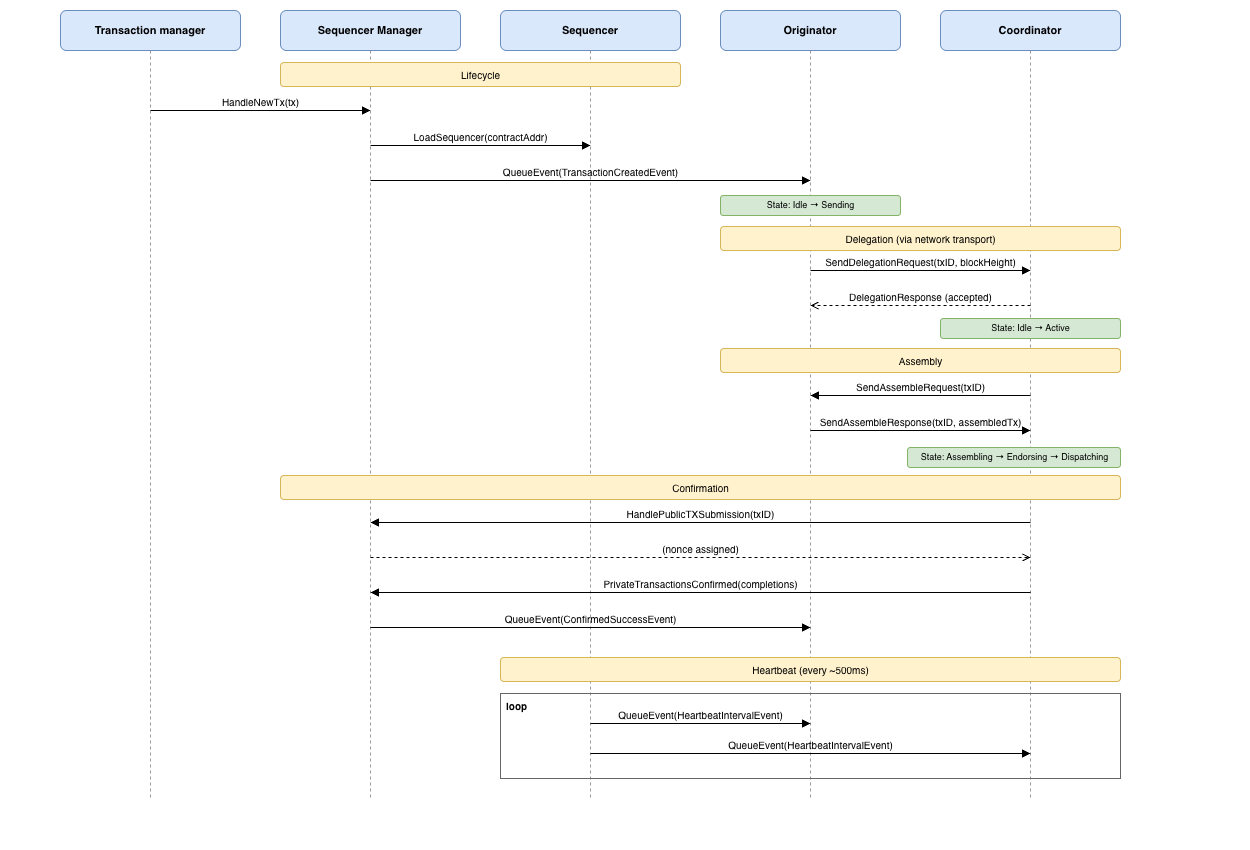
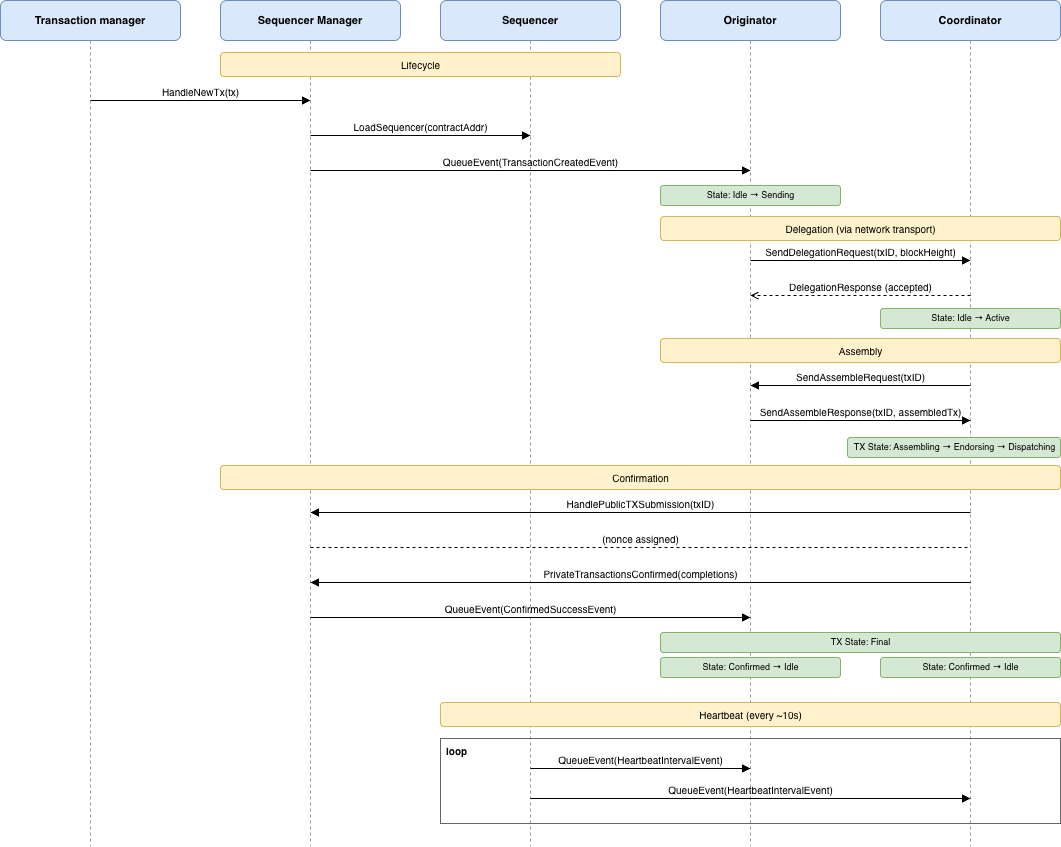
Address review comments

diff --git a/doc-site/docs/architecture/distributed_sequencer_architecture.md b/doc-site/docs/architecture/distributed_sequencer_architecture.md
@@ -4,31 +4,30 @@ Paladin is made up of a number of discrete components, each of which handles dif
 
 The distributed sequencer is one of those standalone components and the sequencer manager handles the lifetime of sequencers for different domain contracts.
 
-The distributed sequencer is implemented using [state machines](./distributed_sequencer_state_machine.md) to track activity in the [2 core components](./distributed_sequencer_components.md) of the sequencer (the originator and the coordinator).
+The distributed sequencer is implemented using [state machines](./distributed_sequencer_state_machine.md) to track activity in the [2 core components](#sequencer-components) of the sequencer (the `originator` and the `coordinator`).
 
 For every active sequencer the state machines are updated by generating, receiving (from other nodes), and processing state machine events. The order that state machine events are handled is critical for reliable transaction processing. The sequencer architecture uses several event handling queues, implemented using Golang channels, to maintain this ordering.
 
 ## Sequencer Components
 
-In domains (such as Pente) where the spending rules for states allow any one of a group of parties to spend the state, then we need to coordinate the assembly of transactions across multiple nodes so that we can maximize the throughput by speculatively spending new states and avoiding transactions being reverted due to double concurrent spending / state contention.
+In domains (such as Pente) where the spending rules for states allow any one of a group of parties to spend the state, then we need to coordinate the assembly of transactions across multiple nodes so that we can maximize the throughput by speculatively spending new states and avoiding transactions being reverted due to double spending / state contention.
 
 To achieve this, it is important that we have an algorithm that allows all nodes to agree on which of them should be selected as the coordinator at any given point in time. And all other nodes delegate their transactions to the coordinator.
 
-A node uses 3 key components to coordinate transactions with a domain contract:
-
-### 1 - Sequencer
+A node uses a sequencer to coordinate transactions with a domain contract:
 
 The sequencer manages the overall lifecycle of transactions submitted to the node. The sequencer comprises 2 sub-components:
 
-### 2 - Originator
+### Originator
 
-The originator is responsible for assembling and transactions when instructed to do so by the coordinator.
+The originator is responsible for delegating transactions submitted to the node, to an active coordinator. It performs assembly of delegated transactions when instructed to do so by the coordinator.
 
-### 3 - Coordinator
+### Coordinator
 
-The coordinator determines which contract-wide states should be spent in order to satisfy a transaction's inputs and communicates with originators to instruct them what to submit to the EVM.
+The coordinator orchestrates the assembly of all transactions for a domain instance. For a given domain instance there can only be one tranasction being assembled at a time. The coordinator maintains a pool
+of delegated transactions, selects them in turn for assembly, and orchestrates the endorsement of them.
 
-A coordinator may not always be running on every node participating in the private contract (see below).
+A coordinator may not always be active on every node participating in the private contract (see below).
 
 For each node, for each active private contract, there is one instance of the `Sequencer` in memory. The `Sequencer` contains sub components for the `Originator` and `Coordinator`. The `Originator` is responsible for keeping track of transactions sent, including delegating them to the active coordinator (which may be on a different node) and responding to requests to assemble its tranasctions. The `Coordinator` is responsible for coordinating the assembly and submission of transactions from all `Originators`.
 
@@ -70,7 +69,7 @@ The seqencer lifecycle management built in to Paladin is highly configurable, bu
 
 The following sequence diagram shows the lifecycle of a sequencer for a newly submitted transaction:
 
-![Sequencer Lifecycle](./diagrams/paladin-sequencer-tx-flow.svg){.zoomable-image}
+![Sequencer TX Flow](./diagrams/paladin-sequencer-tx-flow.png){.zoomable-image}
 
 ## Event driven state machines
 
@@ -82,6 +81,6 @@ Events can be received from sources external to the node (such as another node),
 
 The following diagram demonstrates how events are passed to the state machines and how events are processed in one of two priority categories. Priority events are always processed first by the relevant state machine, while regular events are processed whenever there are no priority events to handle:
 
-![Event Handling](diagrams/paladin-code-architecture.svg){.zoomable-image}
+![Event Handling](diagrams/paladin-code-architecture.png){.zoomable-image}
 
 The [state machine](./distributed_sequencer_state_machine.md)'s handling of events can in some cases require it to create and immediately process a new event. This allows the state machine to ensure particular updates are processed synchronously.

diff --git a/doc-site/docs/architecture/distributed_sequencer_dependency_handling.md b/doc-site/docs/architecture/distributed_sequencer_dependency_handling.md
@@ -145,25 +145,31 @@ stateDiagram-v2
 
     classDef parentCls fill:#dae8fc,stroke:#6c8ebf,color:#333
     classDef chainedCls fill:#ffe6cc,stroke:#d79b00,color:#333
+    classDef failedCls fill:#f8cecc,stroke:#b85450,color:#999
 
     Tx1 : Tx 1
     Tx2 : Tx 2
     Tx3 : Tx 3
     Tx4 : Tx 4
     Tx5 : Tx 5
-    Tx6 : Tx 6
+    Tx6 : Tx 6 (reverted)
+    Tx7 : Tx 7
 
     class Tx1,Tx3,Tx5 parentCls
-    class Tx2,Tx4,Tx6 chainedCls
+    class Tx2,Tx4,Tx7 chainedCls
+    class Tx6 failedCls
 
     Tx1 --> Tx2 : chains to
     Tx1 --> Tx3 : grapher dep
     Tx3 --> Tx4 : chains to
     Tx3 --> Tx5 : grapher dep
     Tx5 --> Tx6 : chains to
+    Tx5 --> Tx7 : chains to
 ```
 
-Each transaction produces at most one chained child. **Tx 1** produces **Tx 2** (chained), and is also a grapher prerequisite of **Tx 3** — Tx 3 reads or spends a state minted by Tx 1. **Tx 3** in turn produces its own chained child **Tx 4**, and is a grapher prerequisite of **Tx 5**. **Tx 5** produces its own chained child **Tx 6**.
+Each transaction produces a chained child. **Tx 1** produces **Tx 2** (chained), and is also a grapher prerequisite of **Tx 3** — Tx 3 reads or spends a state minted by Tx 1. **Tx 3** in turn produces its own chained child **Tx 4**, and is a grapher prerequisite of **Tx 5**.
+
+**Tx 5** produces its own chained child **Tx 6**. However, it is possible for a chained transaction to revert when submitted to the base ledger which results in re-assembly of the parent transaction and subsequently a new chained transaction.
 
 Unlike post-assembly dependencies (which are discovered from shared state), chained dependencies are registered when the parent transaction's domain implementation creates the child transaction.
 

diff --git a/doc-site/docs/architecture/distributed_sequencer_data_flows.md b/doc-site/docs/architecture/distributed_sequencer_data_flows.md
@@ -22,7 +22,7 @@ To aid with problem diagnostics and to allow an identity who submits a transacti
     - The `remote_id` of the `dispatch` sequencer activity is the ID of a `dispatch` record at the coordinator node. 
  - Chained private transactions
     - This is available on the coordinator node.
-    - It can be used to retrieve the chained transaction created during assembly of a Paladin transaction
+    - It can be used to retrieve the ID of the chained transaction created during the dispatch of a Paladin transaction
     - The `remote_id` of the `chained_dispatch` sequencer activity is the ID of a `chained transaction` record at the coordinator node. 
 
 The follow JSON/RPC queries can be used to retrieve sequencing activities and public transaction submissions:
@@ -45,7 +45,7 @@ The following diagram gives an example of the data flows between nodes for a pri
 
 ## Chained transactions
 
-Some Paladin transactions are assembled into a new private transaction, called a "chained" transaction. A typical example of this is where a `Noto` token is deployed with a hook to delegate transaction approval to a private smart contract deployed to a `Pente` privacy group.
+Some Paladin transactions are dispatched as a new private transaction, called a "chained" transaction. A typical example of this is where a `Noto` token is deployed with a hook to delegate transaction approval to a private smart contract deployed to a `Pente` privacy group.
 
 The following diagram shows the flow of data between the nodes involved in both the original and the chained transaction:
 

diff --git a/doc-site/docs/architecture/distributed_sequencer_overview.md b/doc-site/docs/architecture/distributed_sequencer_overview.md
@@ -12,7 +12,7 @@ For the Pente domain for example, there may be 2 parties who wish to modify the 
 
 The component of Paladin that manages the sequencing of private transactions for all domains is called the **Distributed Sequencer**.
 
-![Distributed Sequencer](diagrams/paladin-sequencer.svg){.zoomable-image}
+![Distributed Sequencer](diagrams/paladin-sequencer.png){.zoomable-image}
 
 The term "distributed" refers to the fact that for any given instance of a domain the sequencing of transactions is distributed among the nodes that are participating in that domain instance. The sequencing of transactions is distributed among the nodes to share the workload and resources across the peers. For some domain types it is important to ensure that only one participating node acts as the sequencer at a given point in time. For other domain types the participating nodes are responsible for their own sequencing.
 
@@ -26,7 +26,7 @@ For domains that use technologies such as zero-knowledge proofs to validate the 
 
 ### Privacy groups and private smart contracts
 
-For private smart contracts deployed to a privacy group, every change to the state trie made by a private smart contract transaction must visible to subsequent transactions invoking the same private smart contract. This ensures that the new state trie created by the first tranasction is used as the starting state for the next transaction. This requires that only one member of the privacy group acts as the transaction coordinator at a given time, but since all members of the privacy group have visibility of the private smart contract state any party can act as the sequencer.
+For private smart contracts deployed to a privacy group, every change to the state trie made by a private smart contract transaction must visible to subsequent transactions invoking the same private smart contract. This ensures that the new state trie created by the first transaction is used as the starting state for the next transaction. This requires that only one member of the privacy group acts as the transaction coordinator at a given time, but since all members of the privacy group have visibility of the private smart contract state any party can act as the coordinator.
 
 Paladin uses a deterministic algorithm for selecting which node to act as the sequencing node if none is currently doing so. If a node becomes temporarily unavailable the algorithm chooses an alternative node to act as the sequencing node, repeating the process until one of the nodes begins sequencing transactions.
 

diff --git a/doc-site/docs/architecture/distributed_sequencer_protocol.md b/doc-site/docs/architecture/distributed_sequencer_protocol.md
@@ -342,7 +342,7 @@ _Remotely Coordinated_ domains could be considered a sub-category of _Leader Ele
 
 ## Objectives
 
-The objective of this algorithm is to maximize efficiency (reduce probably for revert leading to retry cycles of valid request) and throughput (allow many transactions to be included in each block). This algorithm does not attempt to provide a guarantee on final data consistency but instead relies on the base ledger contract to do so (e.g. double spend protection, attestation validation, exactly once intent fulfillment).
+The objective of this algorithm is to maximize efficiency (reduce probability of revert leading to retry cycles of valid request) and throughput (allow many transactions to be included in each block). This algorithm does not attempt to provide a guarantee on final data consistency but instead relies on the base ledger contract to do so (e.g. double spend protection, attestation validation, exactly once intent fulfillment).
 
 The desired properties of that algorithm are
 